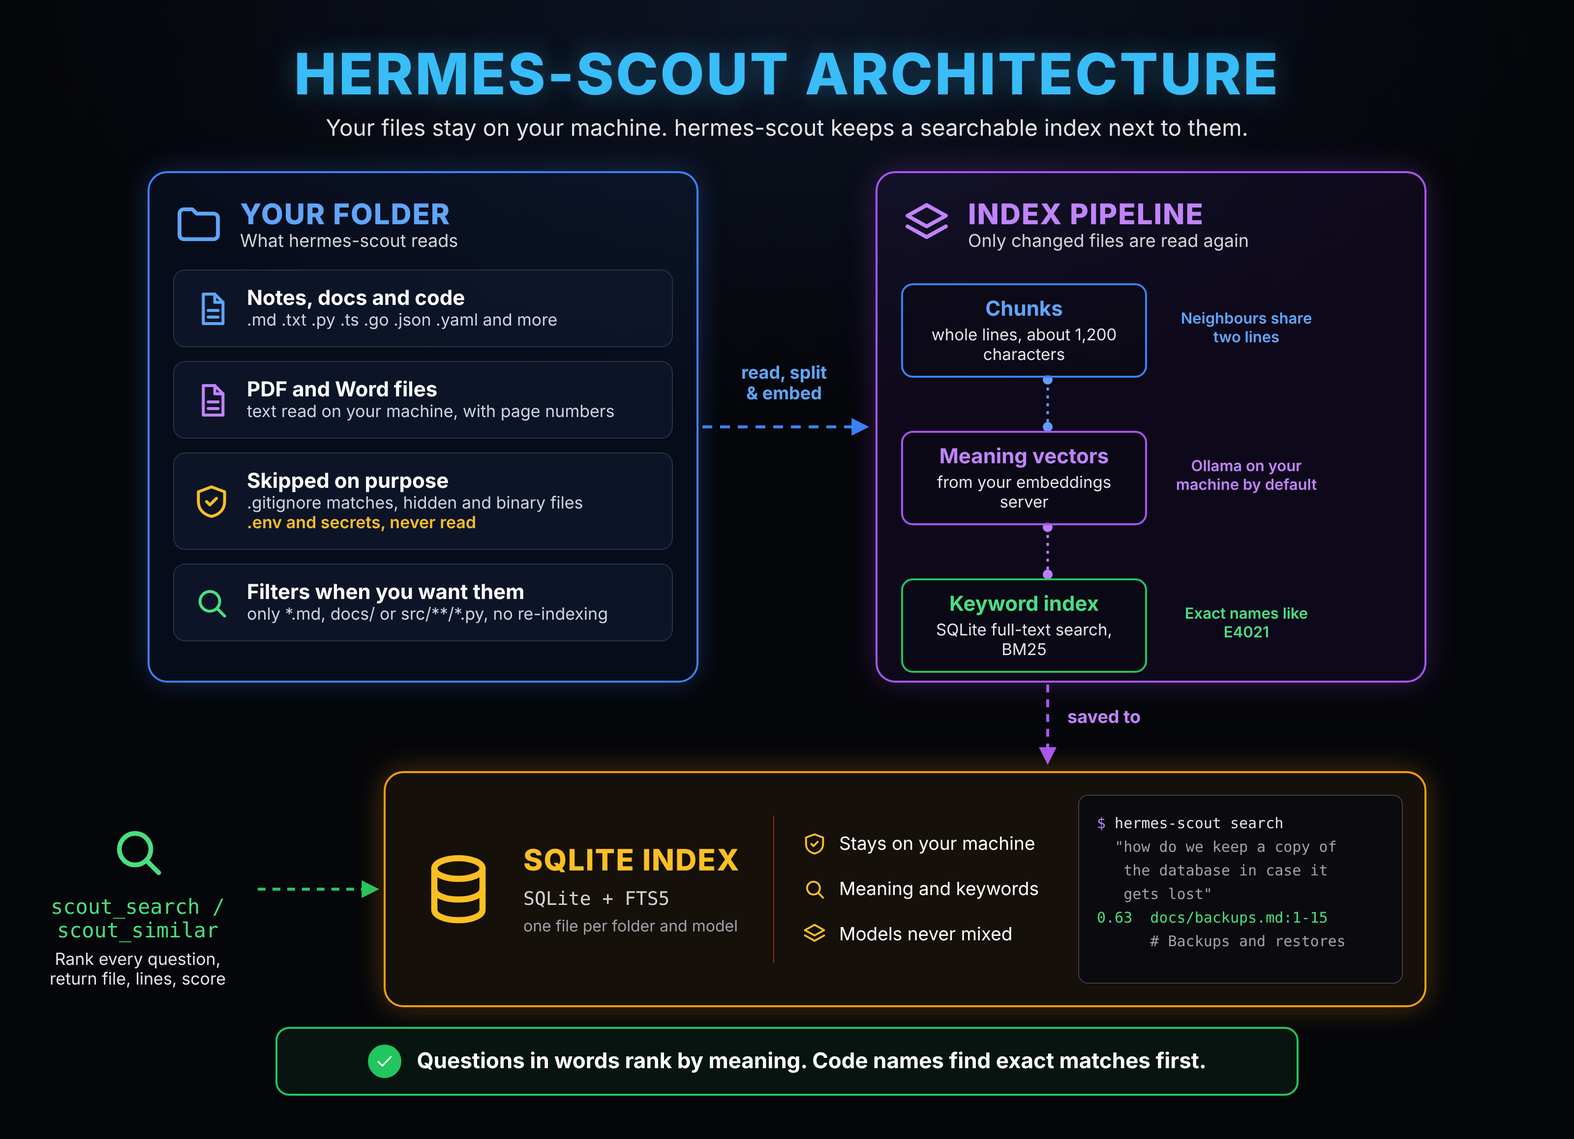
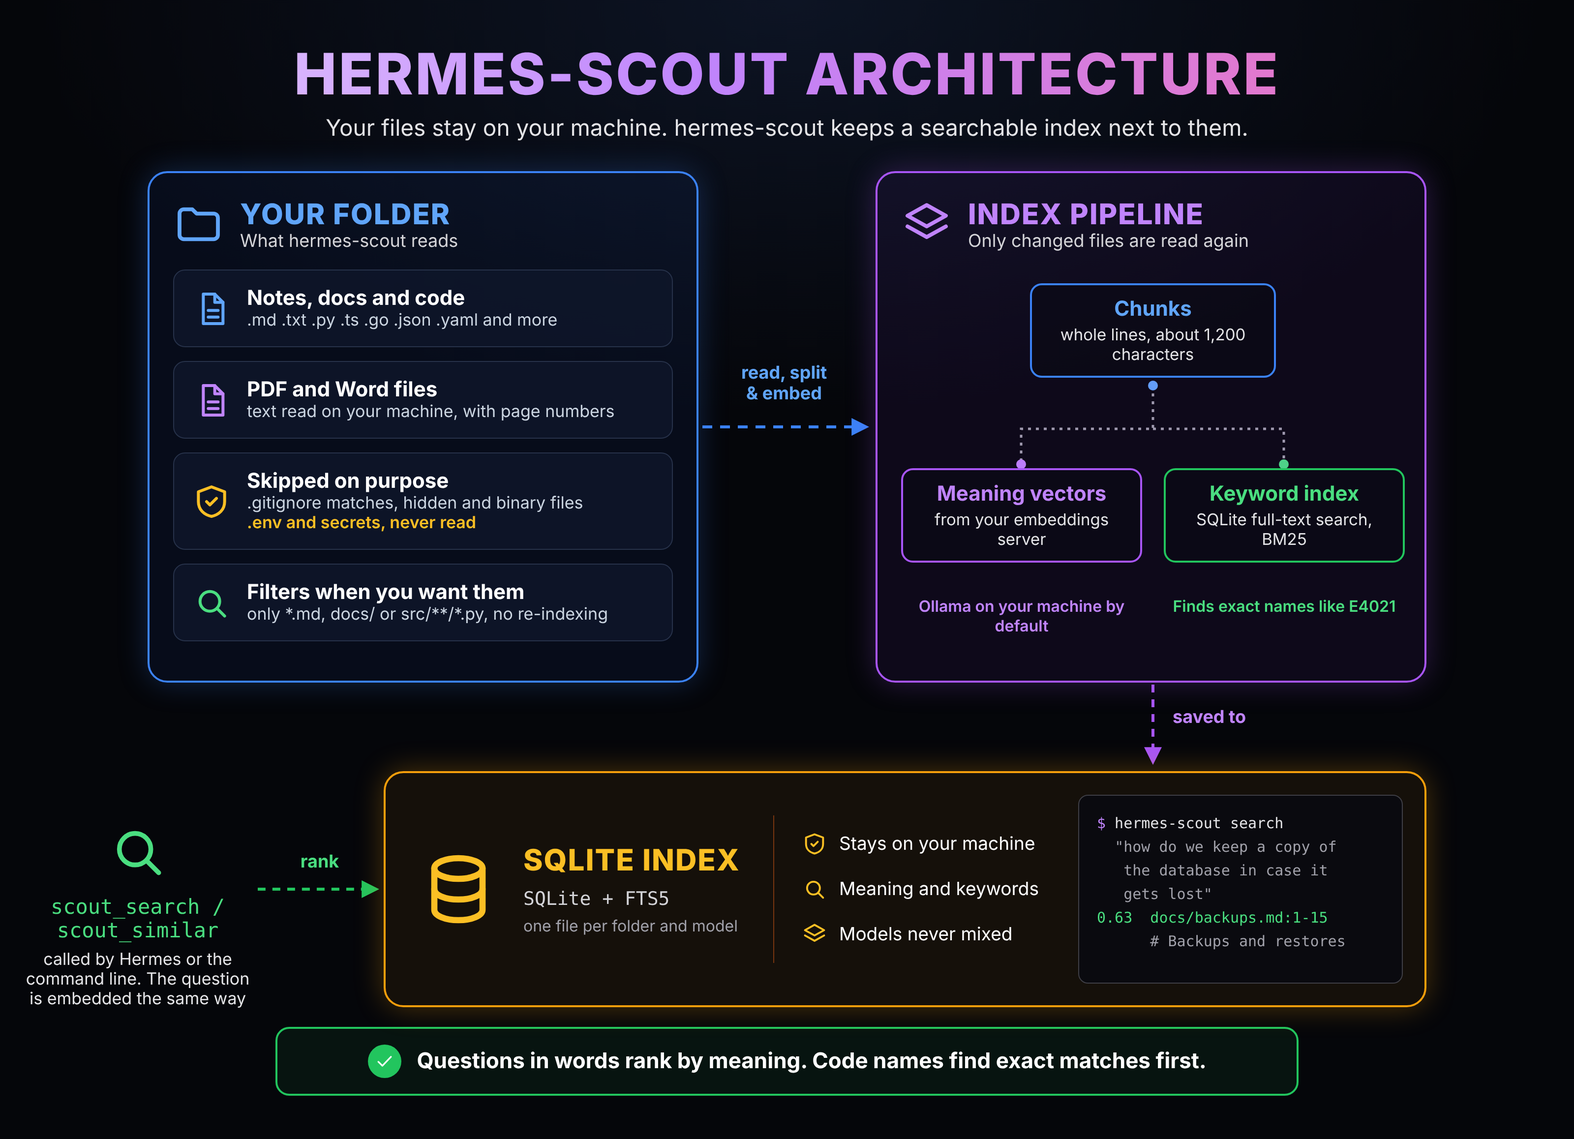
docs: architecture shows chunks feeding both indexes, and who calls the search
The meaning vectors and the keyword index are both built from the chunks, so the pipeline forks
instead of chaining them. The search side says it is called by Hermes or the command line and that
the question is embedded the same way. The title uses the project's purple.

diff --git a/docs/visuals/architecture.html b/docs/visuals/architecture.html
@@ -21,7 +21,8 @@ h1 { text-align: center; font-size: 44px; font-weight: 800; letter-spacing: -0.5
 .note { margin-top: 8px; text-align: center; font-size: 15px; color: #71717a; }
 
 body { width: 1600px; padding: 40px 0 44px; background: radial-gradient(1100px 600px at 50% 0%, #0d1424, #05060a 70%); }
-h1 { font-size: 58px; letter-spacing: 2px; color: #38bdf8; text-shadow: 0 0 28px rgba(56,189,248,.35); }
+h1 { font-size: 58px; letter-spacing: 2px; background: linear-gradient(90deg, #e9d5ff, #c084fc 45%, #f472b6);
+     -webkit-background-clip: text; color: transparent; }
 .sub { color: #e4e4e7; font-size: 23px; margin: 6px 0 0; }
 .stage { position: relative; height: 900px; }
 .box { position: absolute; border: 2px solid; border-radius: 20px; padding: 24px; }
@@ -39,7 +40,7 @@ h1 { font-size: 58px; letter-spacing: 2px; color: #38bdf8; text-shadow: 0 0 28px
 .step { position: absolute; left: 24px; width: 250px; border: 2px solid; border-radius: 12px; padding: 12px 16px;
         background: rgba(10,10,20,.6); text-align: center; }
 .step b { font-size: 21px; } .step span { display: block; color: #e4e4e7; font-size: 16.5px; margin-top: 3px; }
-.note { position: absolute; left: 300px; width: 150px; font-size: 15.5px; font-weight: 600; }
+.note { position: absolute; font-size: 16px; font-weight: 600; text-align: center; }
 .mono { font-family: "DejaVu Sans Mono", monospace; }
 .code { position: absolute; right: 22px; top: 22px; bottom: 22px; width: 330px; border: 1.5px solid #3f3f46;
         border-radius: 10px; background: #0a0a0f; padding: 16px 18px; font: 15px/1.6 "DejaVu Sans Mono", monospace;
@@ -54,9 +55,9 @@ h1 { font-size: 58px; letter-spacing: 2px; color: #38bdf8; text-shadow: 0 0 28px
           font-weight: 700; }
 .dot { width: 34px; height: 34px; border-radius: 50%; background: #22c55e; display: flex; align-items: center;
        justify-content: center; }
-</style></head><body><h1>HERMES-SCOUT ARCHITECTURE</h1><p class="sub">Your files stay on your machine. hermes-scout keeps a searchable index next to them.</p><div class="stage"><svg width="1600" height="900" style="position:absolute;left:0;top:0"><defs><marker id="ab" viewBox="0 0 10 10" refX="8" refY="5" markerWidth="6" markerHeight="6" orient="auto"><path d="M0 0L10 5L0 10z" fill="#3b82f6"/></marker><marker id="ap" viewBox="0 0 10 10" refX="8" refY="5" markerWidth="6" markerHeight="6" orient="auto"><path d="M0 0L10 5L0 10z" fill="#a855f7"/></marker><marker id="ag" viewBox="0 0 10 10" refX="8" refY="5" markerWidth="6" markerHeight="6" orient="auto"><path d="M0 0L10 5L0 10z" fill="#22c55e"/></marker></defs><line x1="714" y1="290" x2="880" y2="290" stroke="#3b82f6" stroke-width="3" stroke-dasharray="10 8" marker-end="url(#ab)"/><line x1="1065" y1="242" x2="1065" y2="290" stroke="#60a5fa" stroke-width="2.5" stroke-dasharray="3 5"/><circle cx="1065" cy="242" r="5" fill="#60a5fa"/><circle cx="1065" cy="290" r="5" fill="#60a5fa"/><line x1="1065" y1="392" x2="1065" y2="440" stroke="#c084fc" stroke-width="2.5" stroke-dasharray="3 5"/><circle cx="1065" cy="392" r="5" fill="#c084fc"/><circle cx="1065" cy="440" r="5" fill="#c084fc"/><path d="M1065 552 L1065 630" stroke="#a855f7" stroke-width="3" stroke-dasharray="8 7" fill="none" marker-end="url(#ap)"/><path d="M262 760 C 300 760, 340 760, 382 760" stroke="#22c55e" stroke-width="3" stroke-dasharray="8 7" fill="none" marker-end="url(#ag)"/></svg><div class="box blue" style="left:150px;top:30px;width:560px;height:520px"><div class="bh"><svg viewBox="0 0 24 24" width="52" height="52" fill="none" stroke="#60a5fa" stroke-width="1.8" stroke-linecap="round" stroke-linejoin="round"><path d="M3 7a2 2 0 0 1 2-2h4l2 2h8a2 2 0 0 1 2 2v8a2 2 0 0 1-2 2H5a2 2 0 0 1-2-2z"/></svg><div><b>YOUR FOLDER</b><span>What hermes-scout reads</span></div></div><div class="card"><svg viewBox="0 0 24 24" width="40" height="40" fill="none" stroke="#60a5fa" stroke-width="1.8" stroke-linecap="round" stroke-linejoin="round"><path d="M7 3h7l5 5v13H7z"/><path d="M14 3v5h5"/><path d="M10 13h6M10 17h6"/></svg><div><b>Notes, docs and code</b><span>.md .txt .py .ts .go .json .yaml and more</span></div></div><div class="card"><svg viewBox="0 0 24 24" width="40" height="40" fill="none" stroke="#c084fc" stroke-width="1.8" stroke-linecap="round" stroke-linejoin="round"><path d="M7 3h7l5 5v13H7z"/><path d="M14 3v5h5"/><path d="M10 13h6M10 17h6"/></svg><div><b>PDF and Word files</b><span>text read on your machine, with page numbers</span></div></div><div class="card"><svg viewBox="0 0 24 24" width="40" height="40" fill="none" stroke="#fbbf24" stroke-width="1.8" stroke-linecap="round" stroke-linejoin="round"><path d="M12 3l8 3v6c0 5-3.5 8-8 9-4.5-1-8-4-8-9V6z"/><path d="M9 12l2 2 4-4"/></svg><div><b>Skipped on purpose</b><span>.gitignore matches, hidden and binary files</span><span class="warn">.env and secrets, never read</span></div></div><div class="card"><svg viewBox="0 0 24 24" width="40" height="40" fill="none" stroke="#4ade80" stroke-width="1.8" stroke-linecap="round" stroke-linejoin="round"><circle cx="11" cy="11" r="6"/><path d="M20 20l-4.5-4.5"/></svg><div><b>Filters when you want them</b><span>only *.md, docs/ or src/**/*.py, no re-indexing</span></div></div></div><div class="box purple" style="left:890px;top:30px;width:560px;height:520px"><div class="bh"><svg viewBox="0 0 24 24" width="52" height="52" fill="none" stroke="#c084fc" stroke-width="1.8" stroke-linecap="round" stroke-linejoin="round"><path d="M12 3l9 5-9 5-9-5z"/><path d="M3 13l9 5 9-5"/></svg><div><b>INDEX PIPELINE</b><span>Only changed files are read again</span></div></div><div class="step" style="top:112px;border-color:#3b82f6"><b style="color:#60a5fa">Chunks</b><span>whole lines, about 1,200 characters</span></div><div class="note" style="top:130px;color:#60a5fa">Neighbours share two lines</div><div class="step" style="top:262px;border-color:#a855f7"><b style="color:#c084fc">Meaning vectors</b><span>from your embeddings server</span></div><div class="note" style="top:280px;color:#c084fc">Ollama on your machine by default</div><div class="step" style="top:412px;border-color:#22c55e"><b style="color:#4ade80">Keyword index</b><span>SQLite full-text search, BM25</span></div><div class="note" style="top:430px;color:#4ade80">Exact names like E4021</div></div><div class="box amber" style="left:390px;top:640px;width:1060px;height:240px;padding:28px 32px"><div style="display:flex;gap:24px;align-items:center;height:100%"><svg viewBox="0 0 24 24" width="84" height="84" fill="none" stroke="#fbbf24" stroke-width="1.8" stroke-linecap="round" stroke-linejoin="round"><ellipse cx="12" cy="6" rx="7" ry="3"/><path d="M5 6v12c0 1.7 3.1 3 7 3s7-1.3 7-3V6"/><path d="M5 12c0 1.7 3.1 3 7 3s7-1.3 7-3"/></svg><div style="width:230px"><div style="font-size:30px;font-weight:800;color:#fbbf24;letter-spacing:1px">SQLITE INDEX</div><div class="mono" style="font-size:19px;color:#d4d4d8;margin-top:10px">SQLite + FTS5</div><div style="font-size:16px;color:#a1a1aa;margin-top:6px">one file per folder and model</div></div><div style="border-left:1.5px solid #78350f;padding-left:28px;height:150px;display:flex;flex-direction:column;justify-content:center"><div class="feat"><svg viewBox="0 0 24 24" width="26" height="26" fill="none" stroke="#fbbf24" stroke-width="1.8" stroke-linecap="round" stroke-linejoin="round"><path d="M12 3l8 3v6c0 5-3.5 8-8 9-4.5-1-8-4-8-9V6z"/><path d="M9 12l2 2 4-4"/></svg>Stays on your machine</div><div class="feat"><svg viewBox="0 0 24 24" width="26" height="26" fill="none" stroke="#fbbf24" stroke-width="1.8" stroke-linecap="round" stroke-linejoin="round"><circle cx="11" cy="11" r="6"/><path d="M20 20l-4.5-4.5"/></svg>Meaning and keywords</div><div class="feat"><svg viewBox="0 0 24 24" width="26" height="26" fill="none" stroke="#fbbf24" stroke-width="1.8" stroke-linecap="round" stroke-linejoin="round"><path d="M12 3l9 5-9 5-9-5z"/><path d="M3 13l9 5 9-5"/></svg>Models never mixed</div></div></div><div class="code"><span class="p">$</span> hermes-scout search
+</style></head><body><h1>HERMES-SCOUT ARCHITECTURE</h1><p class="sub">Your files stay on your machine. hermes-scout keeps a searchable index next to them.</p><div class="stage"><svg width="1600" height="900" style="position:absolute;left:0;top:0"><defs><marker id="ab" viewBox="0 0 10 10" refX="8" refY="5" markerWidth="6" markerHeight="6" orient="auto"><path d="M0 0L10 5L0 10z" fill="#3b82f6"/></marker><marker id="ap" viewBox="0 0 10 10" refX="8" refY="5" markerWidth="6" markerHeight="6" orient="auto"><path d="M0 0L10 5L0 10z" fill="#a855f7"/></marker><marker id="ag" viewBox="0 0 10 10" refX="8" refY="5" markerWidth="6" markerHeight="6" orient="auto"><path d="M0 0L10 5L0 10z" fill="#22c55e"/></marker></defs><line x1="714" y1="290" x2="880" y2="290" stroke="#3b82f6" stroke-width="3" stroke-dasharray="10 8" marker-end="url(#ab)"/><path d="M1172 248 V 292 H 1038 V 326 M1172 292 H 1305 V 326" stroke="#a1a1aa" stroke-width="2.5" stroke-dasharray="3 5" fill="none"/><circle cx="1172" cy="248" r="5" fill="#60a5fa"/><circle cx="1038" cy="328" r="5" fill="#c084fc"/><circle cx="1305" cy="328" r="5" fill="#4ade80"/><path d="M1172 552 L1172 630" stroke="#a855f7" stroke-width="3" stroke-dasharray="8 7" fill="none" marker-end="url(#ap)"/><path d="M262 760 C 300 760, 340 760, 382 760" stroke="#22c55e" stroke-width="3" stroke-dasharray="8 7" fill="none" marker-end="url(#ag)"/></svg><div class="box blue" style="left:150px;top:30px;width:560px;height:520px"><div class="bh"><svg viewBox="0 0 24 24" width="52" height="52" fill="none" stroke="#60a5fa" stroke-width="1.8" stroke-linecap="round" stroke-linejoin="round"><path d="M3 7a2 2 0 0 1 2-2h4l2 2h8a2 2 0 0 1 2 2v8a2 2 0 0 1-2 2H5a2 2 0 0 1-2-2z"/></svg><div><b>YOUR FOLDER</b><span>What hermes-scout reads</span></div></div><div class="card"><svg viewBox="0 0 24 24" width="40" height="40" fill="none" stroke="#60a5fa" stroke-width="1.8" stroke-linecap="round" stroke-linejoin="round"><path d="M7 3h7l5 5v13H7z"/><path d="M14 3v5h5"/><path d="M10 13h6M10 17h6"/></svg><div><b>Notes, docs and code</b><span>.md .txt .py .ts .go .json .yaml and more</span></div></div><div class="card"><svg viewBox="0 0 24 24" width="40" height="40" fill="none" stroke="#c084fc" stroke-width="1.8" stroke-linecap="round" stroke-linejoin="round"><path d="M7 3h7l5 5v13H7z"/><path d="M14 3v5h5"/><path d="M10 13h6M10 17h6"/></svg><div><b>PDF and Word files</b><span>text read on your machine, with page numbers</span></div></div><div class="card"><svg viewBox="0 0 24 24" width="40" height="40" fill="none" stroke="#fbbf24" stroke-width="1.8" stroke-linecap="round" stroke-linejoin="round"><path d="M12 3l8 3v6c0 5-3.5 8-8 9-4.5-1-8-4-8-9V6z"/><path d="M9 12l2 2 4-4"/></svg><div><b>Skipped on purpose</b><span>.gitignore matches, hidden and binary files</span><span class="warn">.env and secrets, never read</span></div></div><div class="card"><svg viewBox="0 0 24 24" width="40" height="40" fill="none" stroke="#4ade80" stroke-width="1.8" stroke-linecap="round" stroke-linejoin="round"><circle cx="11" cy="11" r="6"/><path d="M20 20l-4.5-4.5"/></svg><div><b>Filters when you want them</b><span>only *.md, docs/ or src/**/*.py, no re-indexing</span></div></div></div><div class="box purple" style="left:890px;top:30px;width:560px;height:520px"><div class="bh"><svg viewBox="0 0 24 24" width="52" height="52" fill="none" stroke="#c084fc" stroke-width="1.8" stroke-linecap="round" stroke-linejoin="round"><path d="M12 3l9 5-9 5-9-5z"/><path d="M3 13l9 5 9-5"/></svg><div><b>INDEX PIPELINE</b><span>Only changed files are read again</span></div></div><div class="step" style="left:155px;top:112px;width:250px;border-color:#3b82f6"><b style="color:#60a5fa">Chunks</b><span>whole lines, about 1,200 characters</span></div><div class="step" style="left:24px;top:300px;width:245px;border-color:#a855f7"><b style="color:#c084fc">Meaning vectors</b><span>from your embeddings server</span></div><div class="note" style="left:24px;top:422px;width:245px;color:#c084fc">Ollama on your machine by default</div><div class="step" style="left:291px;top:300px;width:245px;border-color:#22c55e"><b style="color:#4ade80">Keyword index</b><span>SQLite full-text search, BM25</span></div><div class="note" style="left:291px;top:422px;width:245px;color:#4ade80">Finds exact names like E4021</div></div><div class="box amber" style="left:390px;top:640px;width:1060px;height:240px;padding:28px 32px"><div style="display:flex;gap:24px;align-items:center;height:100%"><svg viewBox="0 0 24 24" width="84" height="84" fill="none" stroke="#fbbf24" stroke-width="1.8" stroke-linecap="round" stroke-linejoin="round"><ellipse cx="12" cy="6" rx="7" ry="3"/><path d="M5 6v12c0 1.7 3.1 3 7 3s7-1.3 7-3V6"/><path d="M5 12c0 1.7 3.1 3 7 3s7-1.3 7-3"/></svg><div style="width:230px"><div style="font-size:30px;font-weight:800;color:#fbbf24;letter-spacing:1px">SQLITE INDEX</div><div class="mono" style="font-size:19px;color:#d4d4d8;margin-top:10px">SQLite + FTS5</div><div style="font-size:16px;color:#a1a1aa;margin-top:6px">one file per folder and model</div></div><div style="border-left:1.5px solid #78350f;padding-left:28px;height:150px;display:flex;flex-direction:column;justify-content:center"><div class="feat"><svg viewBox="0 0 24 24" width="26" height="26" fill="none" stroke="#fbbf24" stroke-width="1.8" stroke-linecap="round" stroke-linejoin="round"><path d="M12 3l8 3v6c0 5-3.5 8-8 9-4.5-1-8-4-8-9V6z"/><path d="M9 12l2 2 4-4"/></svg>Stays on your machine</div><div class="feat"><svg viewBox="0 0 24 24" width="26" height="26" fill="none" stroke="#fbbf24" stroke-width="1.8" stroke-linecap="round" stroke-linejoin="round"><circle cx="11" cy="11" r="6"/><path d="M20 20l-4.5-4.5"/></svg>Meaning and keywords</div><div class="feat"><svg viewBox="0 0 24 24" width="26" height="26" fill="none" stroke="#fbbf24" stroke-width="1.8" stroke-linecap="round" stroke-linejoin="round"><path d="M12 3l9 5-9 5-9-5z"/><path d="M3 13l9 5 9-5"/></svg>Models never mixed</div></div></div><div class="code"><span class="p">$</span> hermes-scout search
   <span class="dim">"how do we keep a copy of
    the database in case it
    gets lost"</span>
 <span class="ok">0.63  docs/backups.md:1-15</span>
-<span class="dim">      # Backups and restores</span></div></div><div style="position:absolute;left:20px;top:690px;width:240px;text-align:center"><svg viewBox="0 0 24 24" width="64" height="64" fill="none" stroke="#4ade80" stroke-width="1.8" stroke-linecap="round" stroke-linejoin="round"><circle cx="11" cy="11" r="6"/><path d="M20 20l-4.5-4.5"/></svg><div class="mono" style="color:#4ade80;font-size:21px;margin-top:8px">scout_search /<br>scout_similar</div><div style="font-size:17px;color:#e4e4e7;margin-top:8px">Rank every question,<br>return file, lines, score</div></div><div class="lbl" style="left:716px;top:225px;width:162px;color:#60a5fa">read, split<br>&amp; embed</div><div class="lbl" style="left:1085px;top:575px;color:#c084fc">saved to</div></div><div class="banner"><div class="dot"><svg viewBox="0 0 24 24" width="22" height="22" fill="none" stroke="#fff" stroke-width="1.8" stroke-linecap="round" stroke-linejoin="round"><path d="M5 12.5l4.5 4.5L19 7"/></svg></div>Questions in words rank by meaning. Code names find exact matches first.</div></body></html>
+<span class="dim">      # Backups and restores</span></div></div><div style="position:absolute;left:20px;top:690px;width:240px;text-align:center"><svg viewBox="0 0 24 24" width="64" height="64" fill="none" stroke="#4ade80" stroke-width="1.8" stroke-linecap="round" stroke-linejoin="round"><circle cx="11" cy="11" r="6"/><path d="M20 20l-4.5-4.5"/></svg><div class="mono" style="color:#4ade80;font-size:21px;margin-top:8px">scout_search /<br>scout_similar</div><div style="font-size:17px;color:#e4e4e7;margin-top:8px">called by Hermes or the<br>command line. The question<br>is embedded the same way</div></div><div class="lbl" style="left:262px;top:722px;width:126px;color:#4ade80">rank</div><div class="lbl" style="left:716px;top:225px;width:162px;color:#60a5fa">read, split<br>&amp; embed</div><div class="lbl" style="left:1192px;top:575px;color:#c084fc">saved to</div></div><div class="banner"><div class="dot"><svg viewBox="0 0 24 24" width="22" height="22" fill="none" stroke="#fff" stroke-width="1.8" stroke-linecap="round" stroke-linejoin="round"><path d="M5 12.5l4.5 4.5L19 7"/></svg></div>Questions in words rank by meaning. Code names find exact matches first.</div></body></html>

diff --git a/scripts/make_visuals.py b/scripts/make_visuals.py
@@ -112,7 +112,8 @@ def glyph(icon: str, color: str, size: int) -> str:
 
 ARCH_CSS = """
 body { width: 1600px; padding: 40px 0 44px; background: radial-gradient(1100px 600px at 50% 0%, #0d1424, #05060a 70%); }
-h1 { font-size: 58px; letter-spacing: 2px; color: #38bdf8; text-shadow: 0 0 28px rgba(56,189,248,.35); }
+h1 { font-size: 58px; letter-spacing: 2px; background: linear-gradient(90deg, #e9d5ff, #c084fc 45%, #f472b6);
+     -webkit-background-clip: text; color: transparent; }
 .sub { color: #e4e4e7; font-size: 23px; margin: 6px 0 0; }
 .stage { position: relative; height: 900px; }
 .box { position: absolute; border: 2px solid; border-radius: 20px; padding: 24px; }
@@ -130,7 +131,7 @@ h1 { font-size: 58px; letter-spacing: 2px; color: #38bdf8; text-shadow: 0 0 28px
 .step { position: absolute; left: 24px; width: 250px; border: 2px solid; border-radius: 12px; padding: 12px 16px;
         background: rgba(10,10,20,.6); text-align: center; }
 .step b { font-size: 21px; } .step span { display: block; color: #e4e4e7; font-size: 16.5px; margin-top: 3px; }
-.note { position: absolute; left: 300px; width: 150px; font-size: 15.5px; font-weight: 600; }
+.note { position: absolute; font-size: 16px; font-weight: 600; text-align: center; }
 .mono { font-family: "DejaVu Sans Mono", monospace; }
 .code { position: absolute; right: 22px; top: 22px; bottom: 22px; width: 330px; border: 1.5px solid #3f3f46;
         border-radius: 10px; background: #0a0a0f; padding: 16px 18px; font: 15px/1.6 "DejaVu Sans Mono", monospace;
@@ -163,22 +164,39 @@ def architecture() -> str:
         f'<div class="card">{glyph("search", "#4ade80", 40)}<div><b>Filters when you want them</b>'
         "<span>only *.md, docs/ or src/**/*.py, no re-indexing</span></div></div></div>"
     )
+    # Chunks feed both indexes side by side: (border, text, left, top, width, title, detail, note)
     steps = [
-        ("#3b82f6", "#60a5fa", 112, "Chunks", "whole lines, about 1,200 characters", "Neighbours share two lines"),
+        ("#3b82f6", "#60a5fa", 155, 112, 250, "Chunks", "whole lines, about 1,200 characters", ""),
         (
             "#a855f7",
             "#c084fc",
-            262,
+            24,
+            300,
+            245,
             "Meaning vectors",
             "from your embeddings server",
             "Ollama on your machine by default",
         ),
-        ("#22c55e", "#4ade80", 412, "Keyword index", "SQLite full-text search, BM25", "Exact names like E4021"),
+        (
+            "#22c55e",
+            "#4ade80",
+            291,
+            300,
+            245,
+            "Keyword index",
+            "SQLite full-text search, BM25",
+            "Finds exact names like E4021",
+        ),
     ]
     chain = "".join(
-        f'<div class="step" style="top:{top}px;border-color:{border}"><b style="color:{text}">{title}</b>'
-        f'<span>{detail}</span></div><div class="note" style="top:{top + 18}px;color:{text}">{note}</div>'
-        for border, text, top, title, detail, note in steps
+        f'<div class="step" style="left:{left}px;top:{top}px;width:{width}px;border-color:{border}">'
+        f'<b style="color:{text}">{title}</b><span>{detail}</span></div>'
+        + (
+            f'<div class="note" style="left:{left}px;top:{top + 122}px;width:{width}px;color:{text}">{note}</div>'
+            if note
+            else ""
+        )
+        for border, text, left, top, width, title, detail, note in steps
     )
     pipeline = (
         '<div class="box purple" style="left:890px;top:30px;width:560px;height:520px">'
@@ -206,7 +224,7 @@ def architecture() -> str:
         f'<div style="position:absolute;left:20px;top:690px;width:240px;text-align:center">'
         f'{glyph("search", "#4ade80", 64)}<div class="mono" style="color:#4ade80;font-size:21px;margin-top:8px">'
         'scout_search /<br>scout_similar</div><div style="font-size:17px;color:#e4e4e7;margin-top:8px">'
-        "Rank every question,<br>return file, lines, score</div></div>"
+        "called by Hermes or the<br>command line. The question<br>is embedded the same way</div></div>"
     )
     marker = (
         '<marker id="ab" viewBox="0 0 10 10" refX="8" refY="5" markerWidth="6" markerHeight="6" orient="auto">'
@@ -216,25 +234,26 @@ def architecture() -> str:
         '<marker id="ag" viewBox="0 0 10 10" refX="8" refY="5" markerWidth="6" markerHeight="6" orient="auto">'
         '<path d="M0 0L10 5L0 10z" fill="#22c55e"/></marker>'
     )
-    links = "".join(
-        f'<line x1="1065" y1="{y1}" x2="1065" y2="{y2}" stroke="{c}" stroke-width="2.5" stroke-dasharray="3 5"/>'
-        f'<circle cx="1065" cy="{y1}" r="5" fill="{c}"/><circle cx="1065" cy="{y2}" r="5" fill="{c}"/>'
-        for y1, y2, c in ((242, 290, "#60a5fa"), (392, 440, "#c084fc"))
+    fork = (
+        '<path d="M1172 248 V 292 H 1038 V 326 M1172 292 H 1305 V 326" stroke="#a1a1aa" stroke-width="2.5" '
+        'stroke-dasharray="3 5" fill="none"/><circle cx="1172" cy="248" r="5" fill="#60a5fa"/>'
+        '<circle cx="1038" cy="328" r="5" fill="#c084fc"/><circle cx="1305" cy="328" r="5" fill="#4ade80"/>'
     )
     wires = (
         f'<svg width="1600" height="900" style="position:absolute;left:0;top:0"><defs>{marker}</defs>'
         '<line x1="714" y1="290" x2="880" y2="290" stroke="#3b82f6" stroke-width="3" stroke-dasharray="10 8" '
         'marker-end="url(#ab)"/>'
-        f"{links}"
-        '<path d="M1065 552 L1065 630" stroke="#a855f7" stroke-width="3" stroke-dasharray="8 7" fill="none" '
+        f"{fork}"
+        '<path d="M1172 552 L1172 630" stroke="#a855f7" stroke-width="3" stroke-dasharray="8 7" fill="none" '
         'marker-end="url(#ap)"/>'
         '<path d="M262 760 C 300 760, 340 760, 382 760" stroke="#22c55e" stroke-width="3" stroke-dasharray="8 7" '
         'fill="none" marker-end="url(#ag)"/>'
         "</svg>"
     )
     labels = (
+        '<div class="lbl" style="left:262px;top:722px;width:126px;color:#4ade80">rank</div>'
         '<div class="lbl" style="left:716px;top:225px;width:162px;color:#60a5fa">read, split<br>&amp; embed</div>'
-        '<div class="lbl" style="left:1085px;top:575px;color:#c084fc">saved to</div>'
+        '<div class="lbl" style="left:1192px;top:575px;color:#c084fc">saved to</div>'
     )
     return page(
         '<h1>HERMES-SCOUT ARCHITECTURE</h1><p class="sub">Your files stay on your machine. hermes-scout keeps a '
